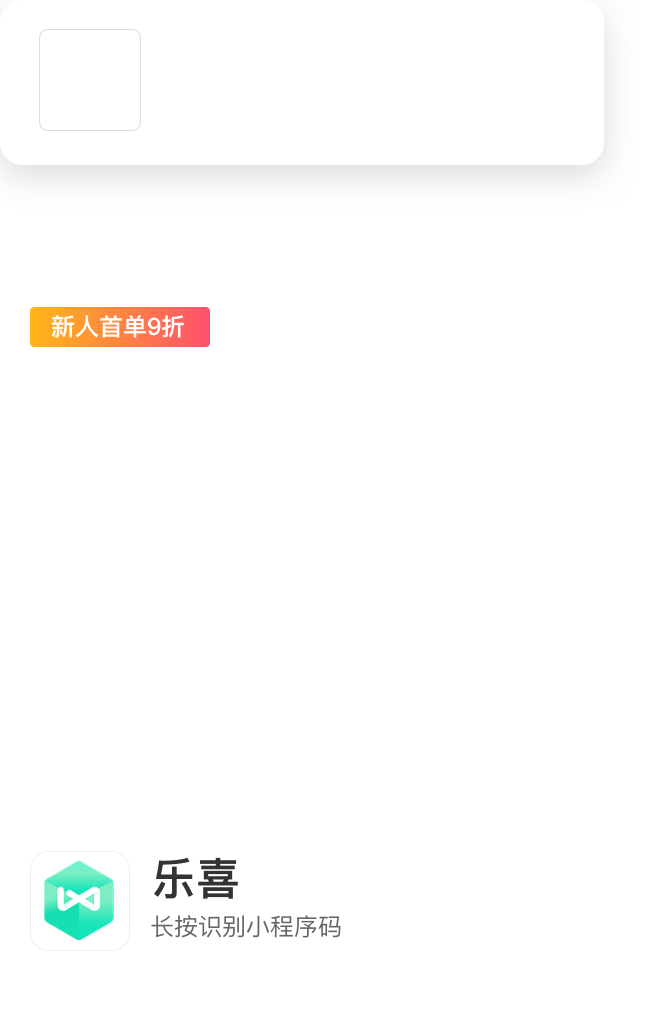
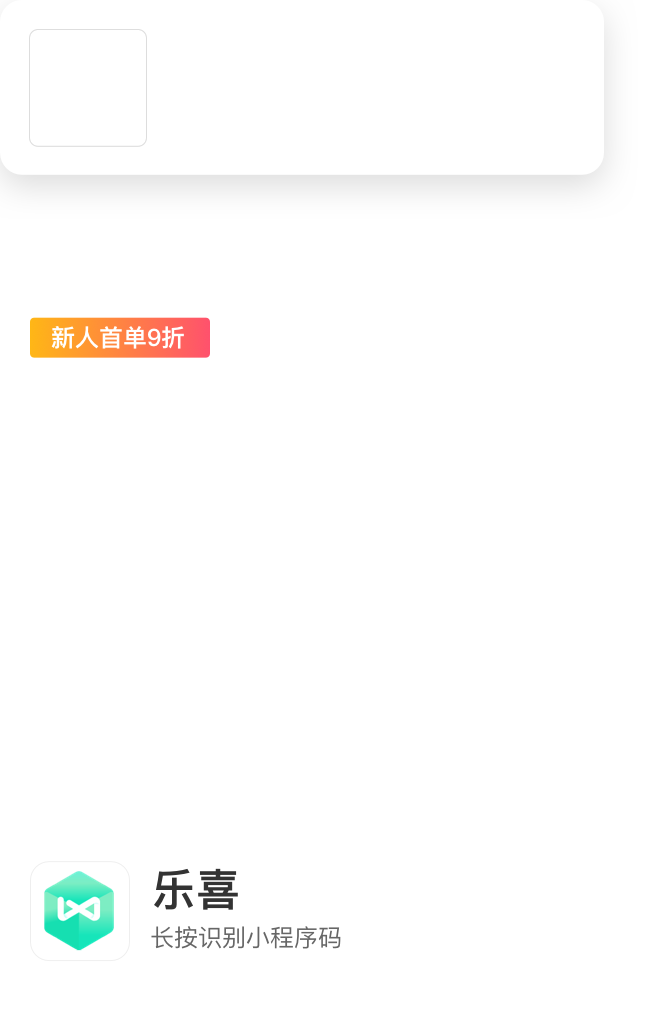
调整分享品牌馆的海报

diff --git a/vimage/poster_style/lexi_style.py b/vimage/poster_style/lexi_style.py
@@ -245,35 +245,41 @@ class BrandPosterStyle:
                                                   width=self.width, height=self.height, radius=0, x=0, y=0,
                                                   z_index=0)
 
+        background_white = '../vimage/vimage/resource/background/background_0.png'
+        background_white_data = format_image_data(post_data=None, url=None, path=background_white,
+                                                  image_type=ImageType.Background,
+                                                  width=670, height=250, radius=0, x=40, y=45,
+                                                  z_index=1)
+
         # 品牌封面
         brand_cover_data = format_image_data(post_data=self.data, url=None, path=None,
                                              image_type=ImageType.Background,
                                              width=670, height=250, radius=0, x=40, y=45,
-                                             z_index=1)
+                                             z_index=2)
 
         # 内容背景
         content_background_image = '../vimage/vimage/resource/background/background_15.png'
         content_background_data = format_image_data(post_data=None, url=None, path=content_background_image,
                                                     image_type=ImageType.Background,
-                                                    width=670, height=1020, radius=0, x=40, y=230,
-                                                    z_index=2)
+                                                    width=670, height=1030, radius=0, x=40, y=220,
+                                                    z_index=3)
 
         # 品牌logo
         brand_logo_data = format_image_data(post_data=self.data, url=None, path=None,
                                             image_type=ImageType.BrandLogo,
-                                            width=98, height=98, radius=8, x=81, y=261,
-                                            z_index=3)
+                                            width=114, height=114, radius=8, x=71, y=251,
+                                            z_index=4)
 
         # 城市icon素材
         modify_image = '../vimage/vimage/resource/material/material_30.png'
         modify_image_data = format_image_data(post_data=None, url=None, path=modify_image, image_type=ImageType.Modify,
-                                              width=18, height=25, radius=0, x=200, y=330, z_index=4)
+                                              width=18, height=25, radius=0, x=200, y=345, z_index=5)
 
         # 小程序码
         wxa_code_image_data = format_image_data(post_data=self.data, url=None, path=None,
                                                 image_type=ImageType.WxaCode,
                                                 width=180, height=180, radius=0, x=500, y=1044,
-                                                z_index=4)
+                                                z_index=6)
 
         # 品牌名称
         brand_name = self.data.get('brand_name')
@@ -281,39 +287,51 @@ class BrandPosterStyle:
         brand_name_text = brand_name[:text_count] if len(brand_name) > text_count else brand_name
         brand_name_data = format_text_data(post_data=None, text=brand_name_text, text_type=TextType.BrandName,
                                            font_size=36, font_family='PingFang Bold', align='left',
-                                           text_color='#333333', x=200, y=270, spacing=None, z_index=1)
+                                           text_color='#333333', x=200, y=245, spacing=None, z_index=1)
+
+        # 默认设计馆名称
+        default_brand_data = format_text_data(post_data=None, text='乐喜原创品牌设计馆', text_type=TextType.Info,
+                                              font_size=24, font_family=None, align='left',
+                                              text_color='#666666', x=200, y=300, spacing=None, z_index=2)
 
         # 店铺icon
         brand_name_len = get_text_width(brand_name_text, 36, 'PingFang Bold')
         modify_image_1 = '../vimage/vimage/resource/material/material_29.png'
         modify_image_data_1 = format_image_data(post_data=None, url=None, path=modify_image_1,
                                                 image_type=ImageType.Modify,
-                                                width=36, height=36, radius=0, x=215 + brand_name_len, y=278, z_index=5)
+                                                width=36, height=36, radius=0, x=215 + brand_name_len, y=253, z_index=7)
 
         # 城市
         city_data = format_text_data(post_data=self.data, text=None, text_type=TextType.City,
                                      font_size=26, font_family='PingFang Bold', align='left',
-                                     text_color='#4DE8AD', x=230, y=325, spacing=None, z_index=2)
+                                     text_color='#4DE8AD', x=230, y=338, spacing=None, z_index=3)
 
         # 描述文字
+        describe_text = self.data.get('describe')
+        describe_w = get_text_width(describe_text, 26, None)
+        describe_y = 427
+
+        if describe_w < 600:
+            describe_y += 23
+
         describe_data = {'describe': self.data.get('describe')[:46]}
         describe_text_data = format_text_data(post_data=describe_data, text=None, text_type=TextType.Describe,
                                               font_size=26, font_family=None, align='left',
-                                              text_color='#333333', x=70, y=427, spacing=38, z_index=3, width=600)
+                                              text_color='#333333', x=70, y=describe_y, spacing=38, z_index=4, width=600)
 
         # slogan
         default_slogan = '/ 全 球 原 创 设 计 品 位 购 物 平 台 /'
         default_slogan_data = format_text_data(post_data=None, text=default_slogan, text_type=TextType.Info,
                                                font_size=26, font_family='PingFang Bold', align='center',
-                                               text_color='#FFFFFF', x=0, y=1276, spacing=0, z_index=4, width=750)
+                                               text_color='#FFFFFF', x=0, y=1276, spacing=0, z_index=5, width=750)
 
         img_count = len(self.goods_images)  # 图片数量
         a_img_w = 610  # 单图宽度
         a_img_h = 406  # 单图高度
 
         # 图片样式集合
-        images_style_data = [background_image_data, brand_cover_data, content_background_data, brand_logo_data,
-                             wxa_code_image_data, modify_image_data, modify_image_data_1]
+        images_style_data = [background_image_data, background_white_data, brand_cover_data, content_background_data,
+                             brand_logo_data, wxa_code_image_data, modify_image_data, modify_image_data_1]
 
         if 1 <= img_count < 3:
             # 只展示一张图片
@@ -340,7 +358,7 @@ class BrandPosterStyle:
 
         return {
             'size': self.size,
-            'texts': [brand_name_data, city_data, describe_text_data, default_slogan_data],
+            'texts': [brand_name_data, default_brand_data,  city_data, describe_text_data, default_slogan_data],
             'images': images_style_data,
             'shapes': []
         }
@@ -2872,7 +2890,7 @@ class GoodsCardStyle:
 
         # 商品名称
         goods_title = self.data.get('title')
-        text_count = get_text_count(goods_title, 24, 350, None)
+        text_count = get_text_count(goods_title, 24, 350, None) - 1
         title_text = '%s...' % goods_title[:text_count] if len(goods_title) > text_count else goods_title
         goods_title_data = format_text_data(post_data=None, text=title_text, text_type=TextType.Title,
                                             font_size=24, font_family=None, align='left',

diff --git a/vimage/helpers/poster_make.py b/vimage/helpers/poster_make.py
@@ -97,37 +97,39 @@ class TextObject:
 
         if text_size[0] > self.width:
             text_w = text_size[0] / len(self.content)  # 单个字符的宽度
-            line_text_count = int(self.width / text_w)  # 每排显示字符数量
+            line_text_count = math.ceil(self.width / text_w)  # 每排显示字符数量
             line_count = math.ceil(len(self.content) / line_text_count)  # 行数
 
             content_text = ''
+            line_text_arr = []
             for i in range(line_count):
                 start_index = line_text_count * i  # 截取的文字起始位置
                 line_text = self.content[start_index: line_text_count + start_index] + '\n'  # 每行末尾添加换行
+                line_text_arr.append(line_text)
                 content_text += line_text  # 结果拼接的文字
 
             # 最终的内容文字
-            self.content = content_text.strip()
+            self.content = content_text.strip('\n')
 
             # 格式化过长的内容
-            self.format_more_text(line_text_count, line_count)
+            self.format_more_text(line_text_count, line_text_arr)
 
         return self.content
 
-    def format_more_text(self, text_count, line_count):
+    def format_more_text(self, text_count, line_text_arr):
         """
         格式化过长的文字，末尾添加'...'
 
-        :param text_count: 显示文字数量
-        :param line_count: 总行数
+        :param text_count: 每行显示的文字数量
+        :param line_text_arr: 每行的文字
         :return: 格式化后的文字
         """
 
-        # 最后一行文字的长度
-        end_text_len = len(self.content) - text_count * int(line_count - 2)
+        # 最后一行文字
+        end_line_text = line_text_arr.pop().strip('\n')
 
-        if end_text_len > text_count:
-            self.content = self.content[:len(self.content) - 1] + '...'
+        if len(end_line_text) > text_count:
+            self.content = self.content + '...'
 
         return self.content
 
